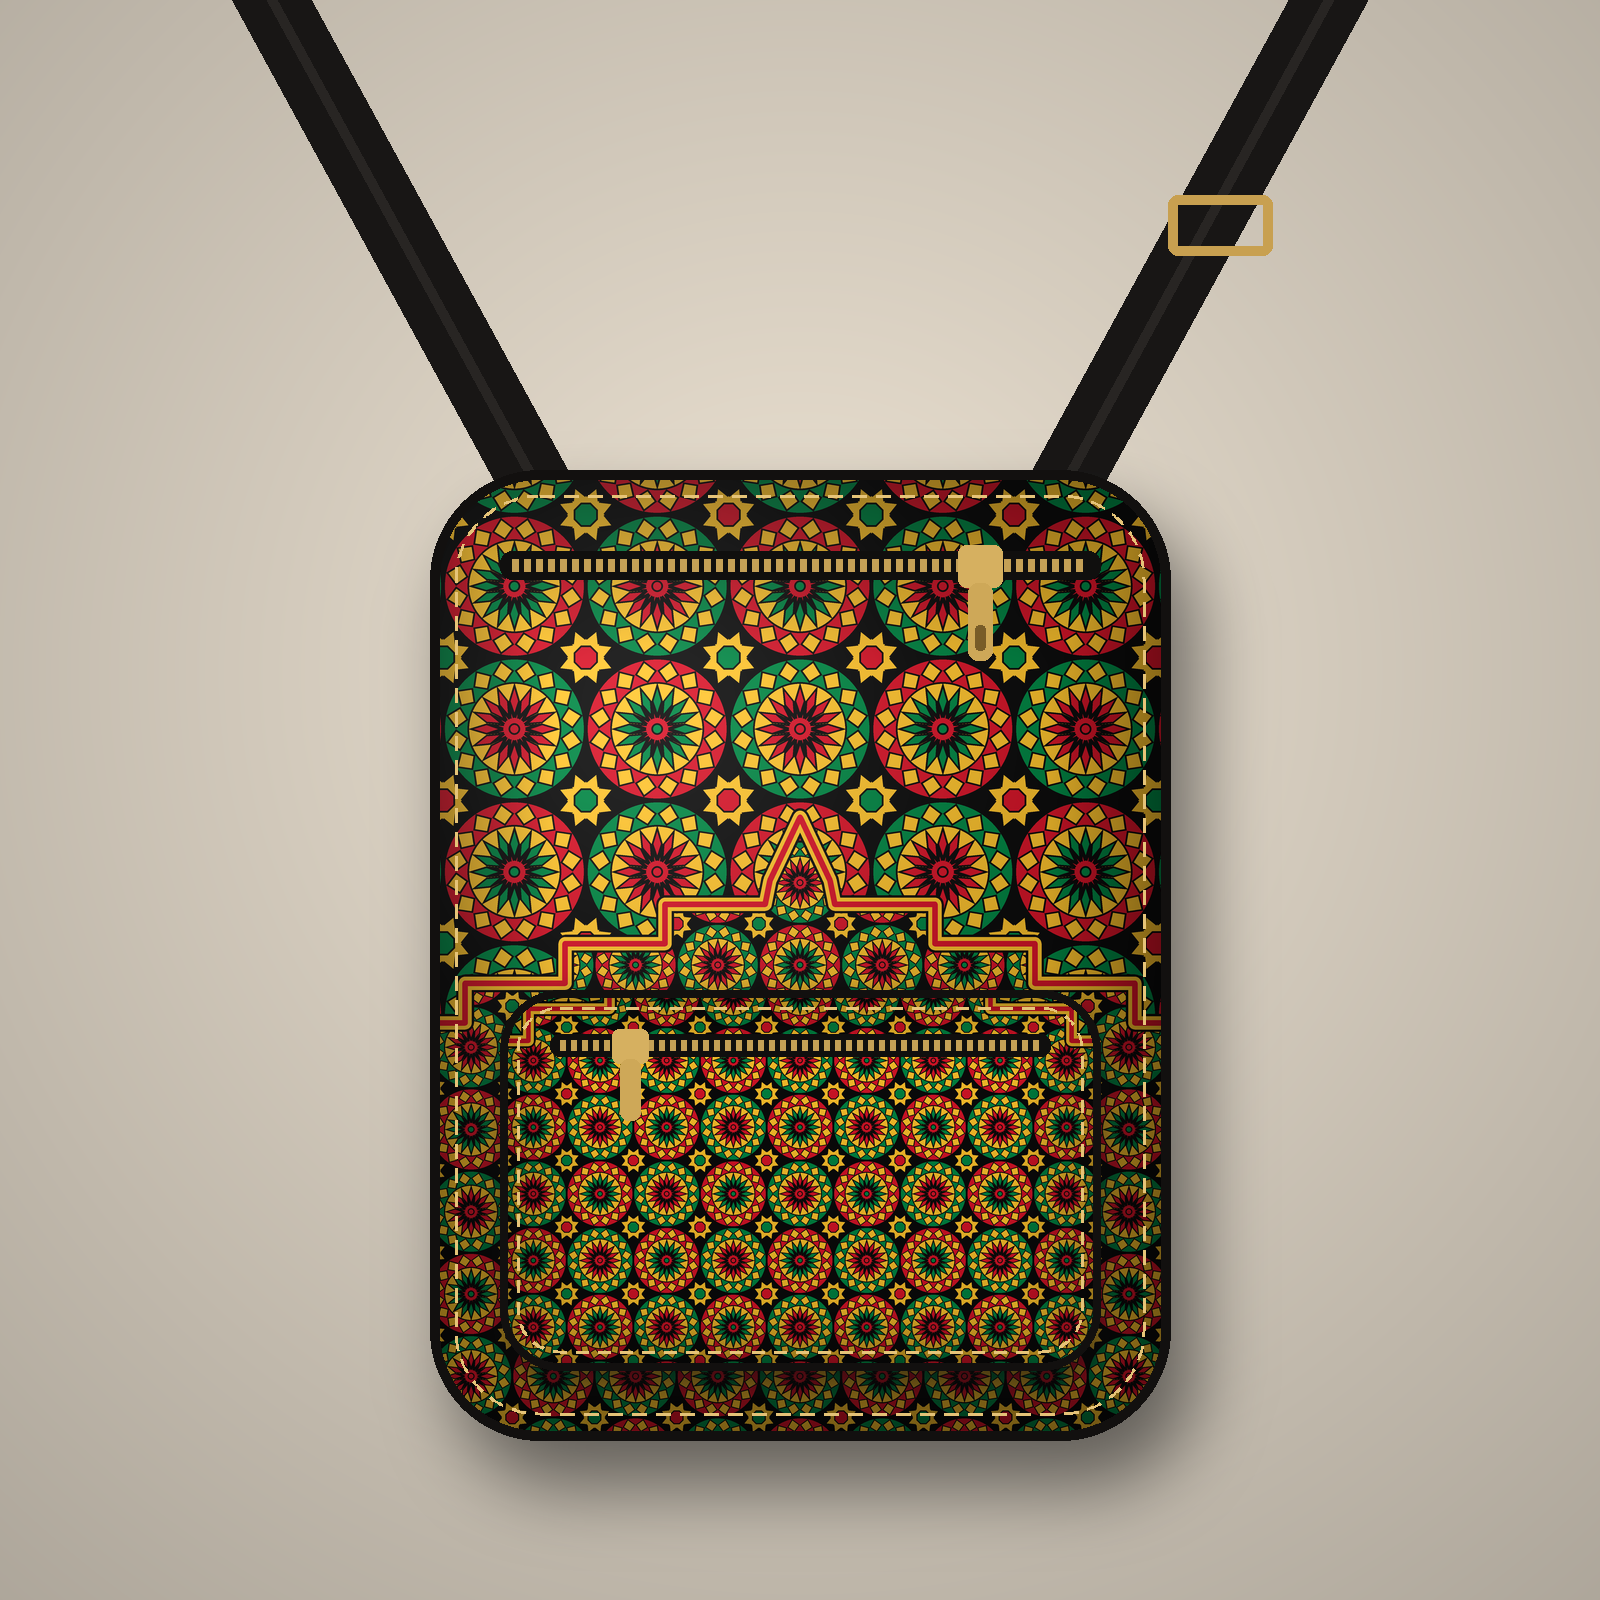
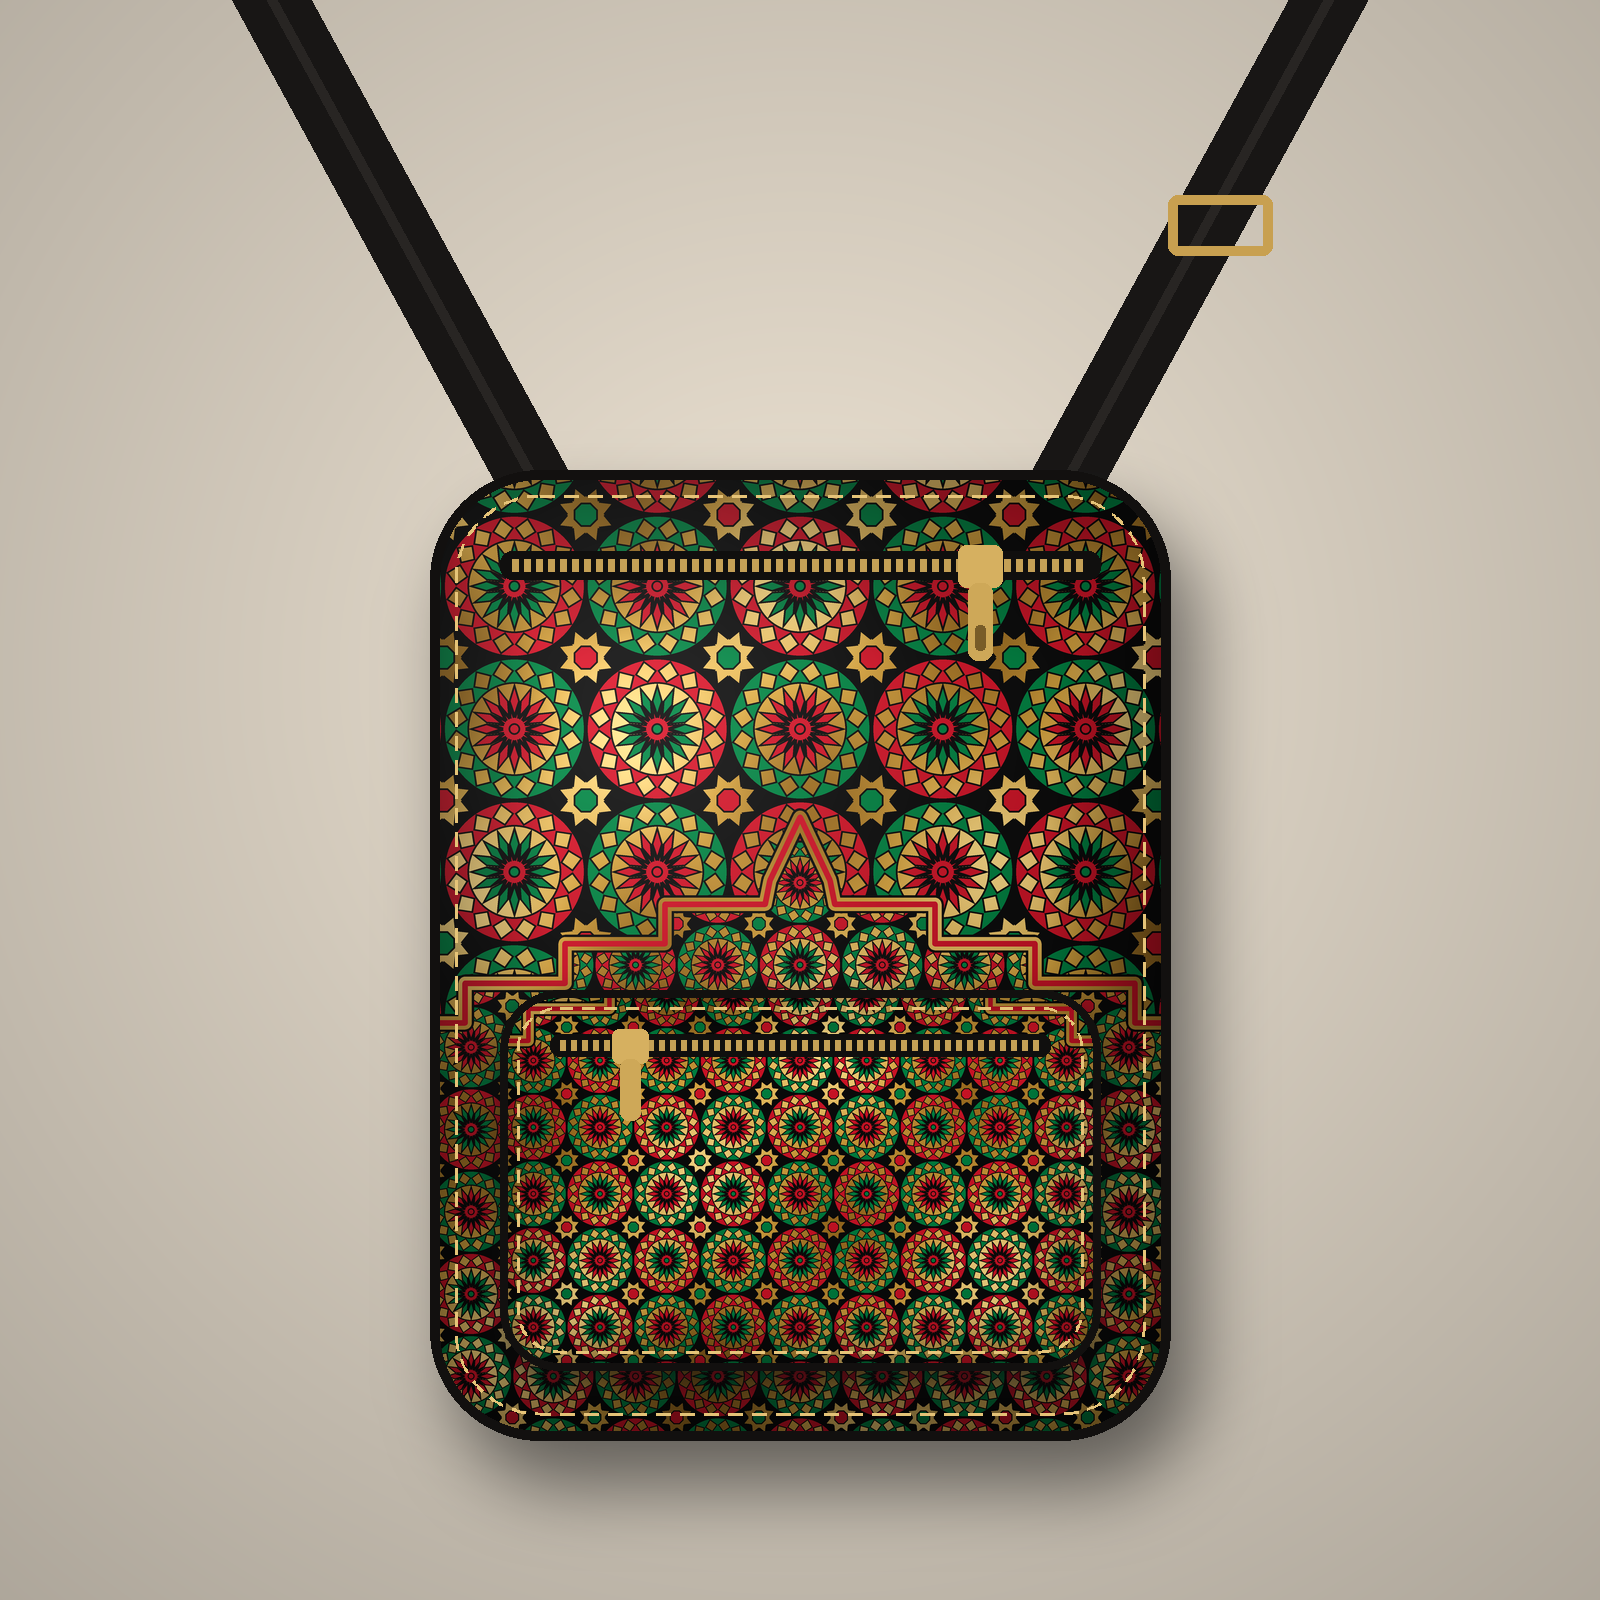
Zellige: richer metallic gold instead of flat yellow
Claude-Session: https://claude.ai/code/session_01Mt1Tg14bgvqpkRSeX5tTDt

Changed region(s): [[0.2812, 0.2812, 0.7188, 0.9062], [0.5312, 0.875, 0.5938, 0.9062]]

diff --git a/heritage-crossbody-bag/make_zellige_design.py b/heritage-crossbody-bag/make_zellige_design.py
@@ -16,6 +16,7 @@ import math
 import sys
 from pathlib import Path
 
+import numpy as np
 from PIL import Image, ImageDraw
 
 from make_circle_pattern import mockup
@@ -25,7 +26,24 @@ SS = 2
 TAU = 2 * math.pi
 
 BLACK = (10, 10, 10)
-GOLD = (232, 178, 40)
+GOLD = (201, 152, 52)   # placeholder while drawing; painted as metallic gold after
+GOLD_DEEP = np.array([150, 104, 30], np.float32)
+GOLD_MID = np.array([204, 156, 60], np.float32)
+GOLD_HI = np.array([242, 210, 128], np.float32)
+
+
+def gild(im):
+    """Replace flat gold with a metallic gold: soft diagonal sheen, deeper shadows."""
+    arr = np.asarray(im, np.float32)
+    w, h = im.size
+    mask = np.all(np.abs(arr - np.array(GOLD, np.float32)) < 1, axis=-1)
+    yy, xx = np.mgrid[0:h, 0:w].astype(np.float32)
+    t = (0.5 + 0.35 * np.sin((xx + yy) / (w * 0.09)) + 0.15 * np.sin((xx - 0.7 * yy) / (w * 0.05) + 1.0))
+    t = np.clip(t, 0, 1)[..., None]
+    col = np.where(t < 0.5, GOLD_DEEP + (GOLD_MID - GOLD_DEEP) * (t / 0.5),
+                   GOLD_MID + (GOLD_HI - GOLD_MID) * ((t - 0.5) / 0.5))
+    arr[mask] = col[mask]
+    return Image.fromarray(arr.astype(np.uint8))
 GREEN = (0, 122, 61)
 RED = (196, 18, 36)
 
@@ -138,7 +156,7 @@ def compose(W, H, top_y=0.56, flip_schemes=False):
     # gold-red-gold band along the border
     for width, col in ((int(h * 0.016), BLACK), (int(h * 0.012), GOLD), (int(h * 0.005), RED)):
         d.line(border, fill=col, width=width, joint="curve")
-    return im.resize((W, H), Image.LANCZOS)
+    return gild(im).resize((W, H), Image.LANCZOS)
 
 
 if __name__ == "__main__":
@@ -152,7 +170,7 @@ if __name__ == "__main__":
     pocket = front.crop((0, H - 1500, W, H))
     pocket.save(out / "zellige-pocket_2010x1500.png", dpi=(DPI, DPI), optimize=True)
     # plain repeating tile: 8" holds a whole number of cells (300 px spacing)
-    tile = field(2400 * SS, 2400 * SS, 300 * SS).resize((2400, 2400), Image.LANCZOS)
+    tile = gild(field(2400 * SS, 2400 * SS, 300 * SS)).resize((2400, 2400), Image.LANCZOS)
     tile.save(out / "zellige-tile_2400.png", dpi=(DPI, DPI), optimize=True)
     mockup(front, front=front, pocket_art=pocket).save(out / "zellige-preview-mockup.png")
     print("done")
